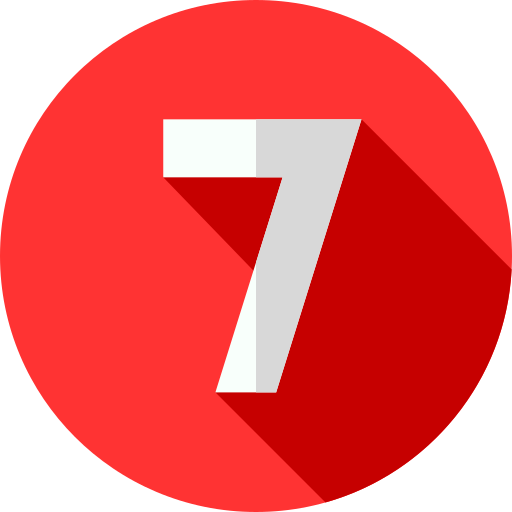
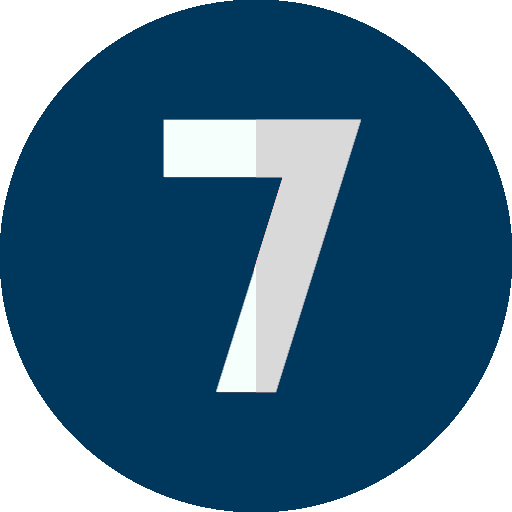
pequeños arreglos esteticos

diff --git a/src/app/services/subjects.service.ts b/src/app/services/subjects.service.ts
@@ -130,7 +130,7 @@ export class SubjectsService {
             {
               title:"Material Texto",
               type:"Texto",
-              preview:"assets/img/video.png",
+              preview:"assets/img/lectura.png",
               length:5,
               idc:111
             },
@@ -151,7 +151,7 @@ export class SubjectsService {
             {
               title:"Prueba de conocimientos",
               type:"Test",
-              preview:"assets/img/video.png",
+              preview:"assets/img/prueba.png",
               length:0,
               idc:114
             }
@@ -160,7 +160,7 @@ export class SubjectsService {
             {
               title:"Material Texto",
               type:"Texto",
-              preview:"assets/img/video.png",
+              preview:"assets/img/lectura.png",
               length:5,
               idc:121
             },
@@ -181,7 +181,7 @@ export class SubjectsService {
             {
               title:"Prueba de conocimientos",
               type:"Test",
-              preview:"assets/img/video.png",
+              preview:"assets/img/prueba.png",
               length:0,
               idc:124
             }
@@ -190,7 +190,7 @@ export class SubjectsService {
             {
               title:"Material Texto",
               type:"Texto",
-              preview:"assets/img/video.png",
+              preview:"assets/img/lectura.png",
               length:5,
               idc:131
             },
@@ -211,7 +211,7 @@ export class SubjectsService {
             {
               title:"Prueba de conocimientos",
               type:"Test",
-              preview:"assets/img/video.png",
+              preview:"assets/img/prueba.png",
               length:0,
               idc:134
             }
@@ -220,7 +220,7 @@ export class SubjectsService {
             {
               title:"Material Texto",
               type:"Texto",
-              preview:"assets/img/video.png",
+              preview:"assets/img/lectura.png",
               length:5,
               idc:141
             },
@@ -241,7 +241,7 @@ export class SubjectsService {
             {
               title:"Prueba de conocimientos",
               type:"Test",
-              preview:"assets/img/video.png",
+              preview:"assets/img/prueba.png",
               length:0,
               idc:144
             }
@@ -250,7 +250,7 @@ export class SubjectsService {
             {
               title:"Material Texto",
               type:"Texto",
-              preview:"assets/img/video.png",
+              preview:"assets/img/lectura.png",
               length:5,
               idc:151
             },
@@ -271,7 +271,7 @@ export class SubjectsService {
             {
               title:"Prueba de conocimientos",
               type:"Test",
-              preview:"assets/img/video.png",
+              preview:"assets/img/prueba.png",
               length:0,
               idc:154
             }
@@ -280,7 +280,7 @@ export class SubjectsService {
             {
               title:"Material Texto",
               type:"Texto",
-              preview:"assets/img/video.png",
+              preview:"assets/img/lectura.png",
               length:5,
               idc:161
             },
@@ -301,7 +301,7 @@ export class SubjectsService {
             {
               title:"Prueba de conocimientos",
               type:"Test",
-              preview:"assets/img/video.png",
+              preview:"assets/img/prueba.png",
               length:0,
               idc:164
             }
@@ -310,7 +310,7 @@ export class SubjectsService {
             {
               title:"Material Texto",
               type:"Texto",
-              preview:"assets/img/video.png",
+              preview:"assets/img/lectura.png",
               length:5,
               idc:171
             },
@@ -331,7 +331,7 @@ export class SubjectsService {
             {
               title:"Prueba de conocimientos",
               type:"Test",
-              preview:"assets/img/video.png",
+              preview:"assets/img/prueba.png",
               length:0,
               idc:174
             }
@@ -340,7 +340,7 @@ export class SubjectsService {
             {
               title:"Material Texto",
               type:"Texto",
-              preview:"assets/img/video.png",
+              preview:"assets/img/lectura.png",
               length:5,
               idc:181
             },
@@ -361,7 +361,7 @@ export class SubjectsService {
             {
               title:"Prueba de conocimientos",
               type:"Test",
-              preview:"assets/img/video.png",
+              preview:"assets/img/prueba.png",
               length:0,
               idc:184
             }
@@ -370,7 +370,7 @@ export class SubjectsService {
             {
               title:"Material Texto",
               type:"Texto",
-              preview:"assets/img/video.png",
+              preview:"assets/img/lectura.png",
               length:5,
               idc:191
             },
@@ -391,7 +391,7 @@ export class SubjectsService {
             {
               title:"Prueba de conocimientos",
               type:"Test",
-              preview:"assets/img/video.png",
+              preview:"assets/img/prueba.png",
               length:0,
               idc:194
             }
@@ -400,7 +400,7 @@ export class SubjectsService {
             {
               title:"Material Texto",
               type:"Texto",
-              preview:"assets/img/video.png",
+              preview:"assets/img/lectura.png",
               length:5,
               idc:1101
             },
@@ -421,7 +421,7 @@ export class SubjectsService {
             {
               title:"Prueba de conocimientos",
               type:"Test",
-              preview:"assets/img/video.png",
+              preview:"assets/img/prueba.png",
               length:0,
               idc:1104
             }
@@ -430,14 +430,14 @@ export class SubjectsService {
             {
               title:"Material Texto",
               type:"Texto",
-              preview:"assets/img/video.png",
+              preview:"assets/img/lectura.png",
               length:5,
               idc:1111
             },
             {
               title:"Prueba de conocimientos",
               type:"Test",
-              preview:"assets/img/video.png",
+              preview:"assets/img/prueba.png",
               length:0,
               idc:1114
             }
@@ -446,7 +446,7 @@ export class SubjectsService {
             {
               title:"Material Texto",
               type:"Texto",
-              preview:"assets/img/video.png",
+              preview:"assets/img/lectura.png",
               length:5,
               idc:1121
             },
@@ -467,7 +467,7 @@ export class SubjectsService {
             {
               title:"Prueba de conocimientos",
               type:"Test",
-              preview:"assets/img/video.png",
+              preview:"assets/img/prueba.png",
               length:0,
               idc:1124
             }

diff --git a/src/index.html b/src/index.html
@@ -6,6 +6,9 @@
   <base href="/">
   <meta name="viewport" content="width=device-width, initial-scale=1">
   <link rel="icon" type="image/x-icon" href="favicon.ico">
+  <link rel="preconnect" href="https://fonts.googleapis.com">
+<link rel="preconnect" href="https://fonts.gstatic.com" crossorigin>
+<link href="https://fonts.googleapis.com/css2?family=Poppins:ital,wght@0,100;0,200;0,300;0,400;0,500;0,600;0,700;0,800;0,900;1,100;1,200;1,300;1,400;1,500;1,600;1,700;1,800;1,900&display=swap" rel="stylesheet">
 </head>
 <body>
   <app-root></app-root>

diff --git a/src/app/pages/student/subject-student/subject-student.component.ts b/src/app/pages/student/subject-student/subject-student.component.ts
@@ -102,9 +102,9 @@ export class SubjectStudentComponent implements OnInit {
   indexOut(event:any){
 
     this.infoMateriaLocal = event;
-    this.setArrayofContents();
-
+    
     try {
+      this.setArrayofContents();
       this.partName = this.infoMateriaLocal.sections[this.materiaActiva.unidad-1].parts[this.infoMateriaLocal.sections[this.materiaActiva.unidad-1].select];
     } catch (error) {
       

diff --git a/src/app/pages/student/contents/test/test.component.ts b/src/app/pages/student/contents/test/test.component.ts
@@ -203,7 +203,7 @@ export class TestComponent implements OnInit {
         return "assets/img/x-button.png"
       }
     } else {
-      return "assets/img/"+index+".png";
+      return "assets/img/"+(index+1)+".png";
     }
   }
 
